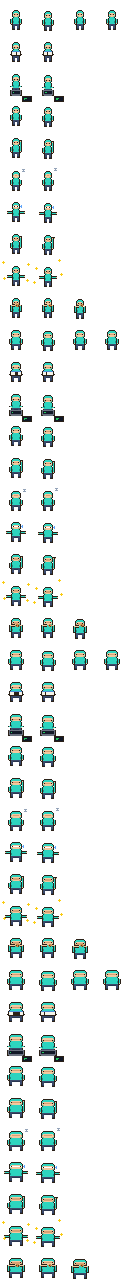
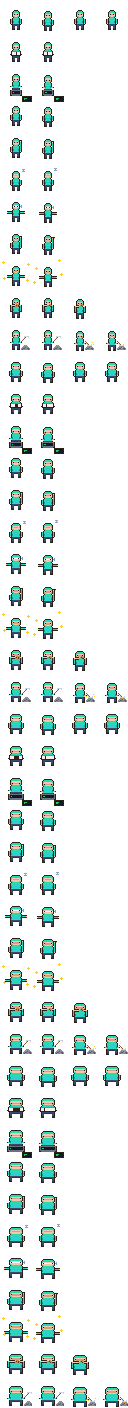
Mine fake BTC with a pickaxe while no session is running
Adds a mine pose (pickaxe, rock, sparks), a Miner that ticks one satoshi per
idle second, a persisted wallet and best-streak high score shown under the
sprite and in the menu bar menu.

diff --git a/Sources/ClaudeBuddy/Model.swift b/Sources/ClaudeBuddy/Model.swift
@@ -3,12 +3,12 @@ import Observation
 
 /// One animation row in the sprite sheet. Row order must match tools/gen_sprites.py.
 enum Pose: Int, CaseIterable {
-    case idle = 0, read, type, run, wait, sleep, oops, wave, spawn, eat
+    case idle = 0, read, type, run, wait, sleep, oops, wave, spawn, eat, mine
 
     var row: Int { rawValue }
     var frameCount: Int {
         switch self {
-        case .idle: return 4
+        case .idle, .mine: return 4
         case .eat: return 3
         default: return 2
         }
@@ -17,7 +17,7 @@ enum Pose: Int, CaseIterable {
         switch self {
         case .idle: return 1.5
         case .sleep: return 1
-        case .type, .run: return 6
+        case .type, .run, .mine: return 6
         default: return 3
         }
     }
@@ -122,6 +122,8 @@ final class SessionModel {
     private(set) var agents: [Agent] = []
     var lastEventDescription = "Waiting for Claude Code…"
     var eventCount = 0
+    /// Fake bitcoin mining that runs whenever no session is around: a way to see how long Claude has been idle.
+    let miner = Miner()
 
     private var timer: Timer?
     private var nextTint = 1
@@ -270,7 +272,7 @@ final class SessionModel {
             case .idle:
                 if sinceEvent > 8 { a.bubble = nil }
                 if sinceEvent > 60 { a.pose = .sleep; a.poseStarted = now }
-            case .sleep, .wait:
+            case .sleep, .wait, .mine:
                 break
             }
             // A subagent that has been quiet for a long time is gone (SubagentStop may have been missed).
@@ -279,6 +281,7 @@ final class SessionModel {
             if !a.isSubagent && sinceEvent > 2 * 60 * 60 { remove.append(a.id) }
         }
         if !remove.isEmpty { agents.removeAll { remove.contains($0.id) } }
+        miner.tick(idle: agents.isEmpty, now: now)
     }
 
     func clear() { agents.removeAll() }
@@ -310,5 +313,49 @@ final class SessionModel {
                 if let e = ev(dict) { self?.handle(e) }
             }
         }
+    }
+}
+
+/// Pretend BTC miner. Runs only while no session exists. The wallet (`total`) and the best single idle
+/// stretch (`best`, the high score) are saved in UserDefaults, so they survive sessions and app restarts.
+@Observable
+@MainActor
+final class Miner {
+    /// Fake hash rate: one satoshi per second of idling.
+    static let ratePerSecond = 0.00000001
+    private static let bestKey = "Miner.best", totalKey = "Miner.total"
+
+    private(set) var idleSince: Date?
+    private(set) var current = 0.0
+    private(set) var best = UserDefaults.standard.double(forKey: bestKey)
+    private(set) var total = UserDefaults.standard.double(forKey: totalKey)
+    private var lastTick: Date?
+
+    var isMining: Bool { idleSince != nil }
+    var idleSeconds: TimeInterval { idleSince.map { Date().timeIntervalSince($0) } ?? 0 }
+
+    func tick(idle: Bool, now: Date) {
+        guard idle else {
+            if idleSince != nil { idleSince = nil; lastTick = nil; current = 0 }
+            return
+        }
+        if idleSince == nil { idleSince = now; current = 0 }
+        let dt = lastTick.map { now.timeIntervalSince($0) } ?? 0
+        lastTick = now
+        guard dt > 0 else { return }
+        let mined = dt * Self.ratePerSecond
+        current += mined
+        total += mined
+        if current > best { best = current; UserDefaults.standard.set(best, forKey: Self.bestKey) }
+        UserDefaults.standard.set(total, forKey: Self.totalKey)
+    }
+
+    static func format(_ btc: Double) -> String { String(format: "%.8f", btc) }
+
+    static func duration(_ s: TimeInterval) -> String {
+        let t = Int(s)
+        if t >= 3600 { return "\(t / 3600)h \(t % 3600 / 60)m" }
+        if t >= 60 { return "\(t / 60)m \(t % 60)s" }
+        return "\(t)s"
     }
 }

diff --git a/Sources/ClaudeBuddy/SpriteView.swift b/Sources/ClaudeBuddy/SpriteView.swift
@@ -31,7 +31,7 @@ struct BuddyStrip: View {
             let families = Family.group(model.agents)
             FlowLayout(spacing: 6, maxWidth: 440) {
                 if families.isEmpty {
-                    CharacterView(agent: nil, date: ctx.date)
+                    CharacterView(agent: nil, date: ctx.date, miner: model.miner)
                 } else {
                     ForEach(families) { family in
                         FamilyView(family: family, date: ctx.date)
@@ -149,9 +149,10 @@ struct Pill: View {
 struct CharacterView: View {
     let agent: Agent?
     let date: Date
+    var miner: Miner? = nil
 
     private var scale: CGFloat { (agent?.isSubagent ?? false) ? 1.5 : 2 }
-    private var pose: Pose { agent?.pose ?? .sleep }
+    private var pose: Pose { agent?.pose ?? .mine }
 
     var body: some View {
         VStack(spacing: 1) {
@@ -162,7 +163,7 @@ struct CharacterView: View {
     }
 
     private var frameIndex: Int {
-        let t = date.timeIntervalSince(agent?.poseStarted ?? .distantPast)
+        let t = date.timeIntervalSince(agent?.poseStarted ?? miner?.idleSince ?? .distantPast)
         return Int(t * pose.fps) % pose.frameCount
     }
 
@@ -181,11 +182,58 @@ struct CharacterView: View {
 
     /// Who this is and what it is doing right now, under the sprite.
     @ViewBuilder private var description: some View {
+        if agent == nil, let miner {
+            MiningScore(miner: miner, date: date)
+        } else {
+            agentDescription
+        }
+    }
+
+    @ViewBuilder private var agentDescription: some View {
         let name = agent == nil ? "no session" : ((agent?.isSubagent ?? false) ? (agent?.label ?? "agent") : "main")
         let doing = agent == nil ? "waiting for Claude Code" : (agent?.bubble ?? (agent?.pose == .sleep ? "sleeping" : "idle"))
         VStack(spacing: 1) {
             Pill(text: name + contextSuffix(agent), maxWidth: 170)
             Pill(text: doing, weight: .regular, maxWidth: 170, dim: true)
         }
+    }
+}
+
+/// Shown under the sprite while no session exists: the wallet (all BTC ever mined, kept across sessions and
+/// app restarts), how long this idle stretch has lasted, and the best single stretch (high score).
+struct MiningScore: View {
+    let miner: Miner
+    let date: Date
+
+    var body: some View {
+        VStack(spacing: 1) {
+            HStack(spacing: 3) {
+                BitcoinLogo(size: 9)
+                Text(Miner.format(miner.total))
+                    .font(.system(size: 7.5, weight: .semibold, design: .monospaced))
+            }
+            .lineLimit(1)
+            .padding(.horizontal, 5).padding(.vertical, 1.5)
+            .background(.regularMaterial, in: Capsule())
+            Pill(text: "mining · \(Miner.duration(miner.idleSeconds)) idle", weight: .regular, maxWidth: 170, dim: true)
+            Pill(text: "best streak \(Miner.format(miner.best))", size: 6.5, weight: .regular, maxWidth: 170, dim: true)
+        }
+    }
+}
+
+/// Tiny orange coin with the ₿ mark.
+struct BitcoinLogo: View {
+    var size: CGFloat = 10
+
+    var body: some View {
+        ZStack {
+            Circle().fill(Color(red: 0.97, green: 0.58, blue: 0.10))
+            Text("₿")
+                .font(.system(size: size * 0.78, weight: .heavy, design: .rounded))
+                .foregroundStyle(.white)
+                .rotationEffect(.degrees(14))
+                .offset(y: -size * 0.02)
+        }
+        .frame(width: size, height: size)
     }
 }

diff --git a/Sources/ClaudeBuddy/App.swift b/Sources/ClaudeBuddy/App.swift
@@ -11,6 +11,9 @@ struct ClaudeBuddyApp: App {
             Text(model.lastEventDescription).font(.caption)
             Text("\(model.eventCount) events · \(model.agents.count) characters").font(.caption2).foregroundStyle(.secondary)
             Divider()
+            Text("₿ \(Miner.format(model.miner.total)) mined" + (model.miner.isMining ? " · mining now" : "")).font(.caption)
+            Text("best streak ₿ \(Miner.format(model.miner.best))").font(.caption2).foregroundStyle(.secondary)
+            Divider()
             Button(delegate.panelVisible ? "Hide Buddy" : "Show Buddy") { delegate.toggle() }
                 .keyboardShortcut("b")
             Button("Reset position") { delegate.panel?.resetPosition() }

diff --git a/tools/gen_sprites.py b/tools/gen_sprites.py
@@ -3,10 +3,10 @@
 
 Output: Sources/ClaudeBuddy/Resources/buddy.png (main) and buddy_1..buddy_4.png (tinted clones).
 Sheet layout: 32x32 px frames, 4 columns, one animation per row (unused frames stay empty).
-Rows come in FAT_LEVELS blocks of 10: block 0 is the normal body, each further block is a wider one
+Rows come in FAT_LEVELS blocks of 11: block 0 is the normal body, each further block is a wider one
 (used as the agent's context window fills up). Within a block the row order must match
 `Pose` in Sources/ClaudeBuddy/Model.swift:
-  0 idle  1 read  2 type  3 run  4 wait  5 sleep  6 oops  7 wave  8 spawn  9 eat
+  0 idle  1 read  2 type  3 run  4 wait  5 sleep  6 oops  7 wave  8 spawn  9 eat  10 mine
 Replace these PNGs with your own art as long as you keep the same grid.
 """
 import struct, zlib, os, sys
@@ -39,6 +39,11 @@ BASE = {
     'z': rgb('94a3b8'),   # zzz
     'c': rgb('c98b4b'),   # cookie
     'C': rgb('5a3a1a'),   # chocolate chips
+    'r': rgb('8b8f99'),   # rock
+    'R': rgb('5b5f69'),   # rock shadow
+    'x': rgb('8a5a2b'),   # pickaxe handle
+    'X': rgb('cbd5e1'),   # pickaxe head
+    'G': rgb('f7931a'),   # bitcoin nugget
 }
 TINTS = [
     ('e8734a', 'c4552f'),  # 0 main: coral
@@ -188,6 +193,27 @@ class Body:
         for i in range(self.L()+1, self.ox + self.W // 2 - 1): f.put(i, y+7, 's'); f.put(i, y+6, 'o'); f.put(i, y+8, 'o')
         for i in range(self.ox + self.W // 2 + 4, self.R()): f.put(i, y+7, 's'); f.put(i, y+6, 'o'); f.put(i, y+8, 'o')
 
+    def pickaxe(self, f, raised, sparks=False, nugget=False):
+        """Old-school mining: both hands on a pickaxe, swinging at a rock on the right."""
+        y = OY
+        R = self.R()
+        # rock on the ground to the right of the character
+        rock = ["...rrr...", "..rrrrr..", ".rrrRrrr.", "rrRRrrRRr", "rRrrrrrRr"]
+        if nugget: rock = ["...rrr...", "..rrGrr..", ".rrrRGrr.", "rrRRrrRRr", "rRrrrrrRr"]
+        f.blit(rock, R + 1, y + 15)
+        if raised:
+            # handle rises up-right from the hands, pick head at the top
+            for (dx, dy) in [(1, 11), (2, 10), (3, 9), (4, 8), (5, 7)]: f.put(R + dx, y + dy, 'x')
+            for dx in range(4, 9): f.put(R + dx, y + 6, 'X')
+            f.put(R + 4, y + 7, 'X'); f.put(R + 8, y + 7, 'X')
+        else:
+            # handle slams down-right, pick head buried in the rock
+            for (dx, dy) in [(1, 11), (2, 12), (3, 13), (4, 14)]: f.put(R + dx, y + dy, 'x')
+            for dx in range(3, 8): f.put(R + dx, y + 15, 'X')
+            f.put(R + 3, y + 14, 'X'); f.put(R + 7, y + 14, 'X')
+            if sparks:
+                for (dx, dy) in [(2, 13), (8, 12), (9, 14), (1, 14)]: f.put(R + dx, y + dy, 'y')
+
     def zzz(self, f, phase):
         x, y = self.ox + self.W, OY - 1 - phase
         for (dx, dy) in [(0,0),(1,0),(2,0),(1,1),(0,2),(1,2),(2,2)]: f.put(x+dx, y+dy, 'z')
@@ -219,6 +245,11 @@ def make_block(extra):
     c = fr(head='blink', arms='eat'); b.cookie(c, True)
     d = fr(head='happy', y_off=1, arms='eat'); b.cookie(d, True)
     rows.append([a, c, d])                                                                                # eat
+    a = fr(head='down', arms='forward'); b.pickaxe(a, True)
+    c = fr(head='down', arms='forward'); b.pickaxe(c, True)
+    d = fr(head='down', y_off=1, arms='forward'); b.pickaxe(d, False, sparks=True)
+    e = fr(head='happy', y_off=1, arms='forward'); b.pickaxe(e, False, nugget=True)
+    rows.append([a, c, d, e])                                                                             # mine
     return rows
 
 def make_frames():

diff --git a/README.md b/README.md
@@ -52,6 +52,7 @@ position is remembered.
 | context grew since last check | eating a cookie, "nom nom · +12k" |
 | 60 s without events | sleeping |
 | `SessionEnd` | waves, disappears |
+| no session at all | mines fake BTC with a pickaxe; the wallet, idle time and best streak show below |
 
 Events carry `agent_id`, so tool calls made *inside* a subagent animate that clone, not the main character.
 
